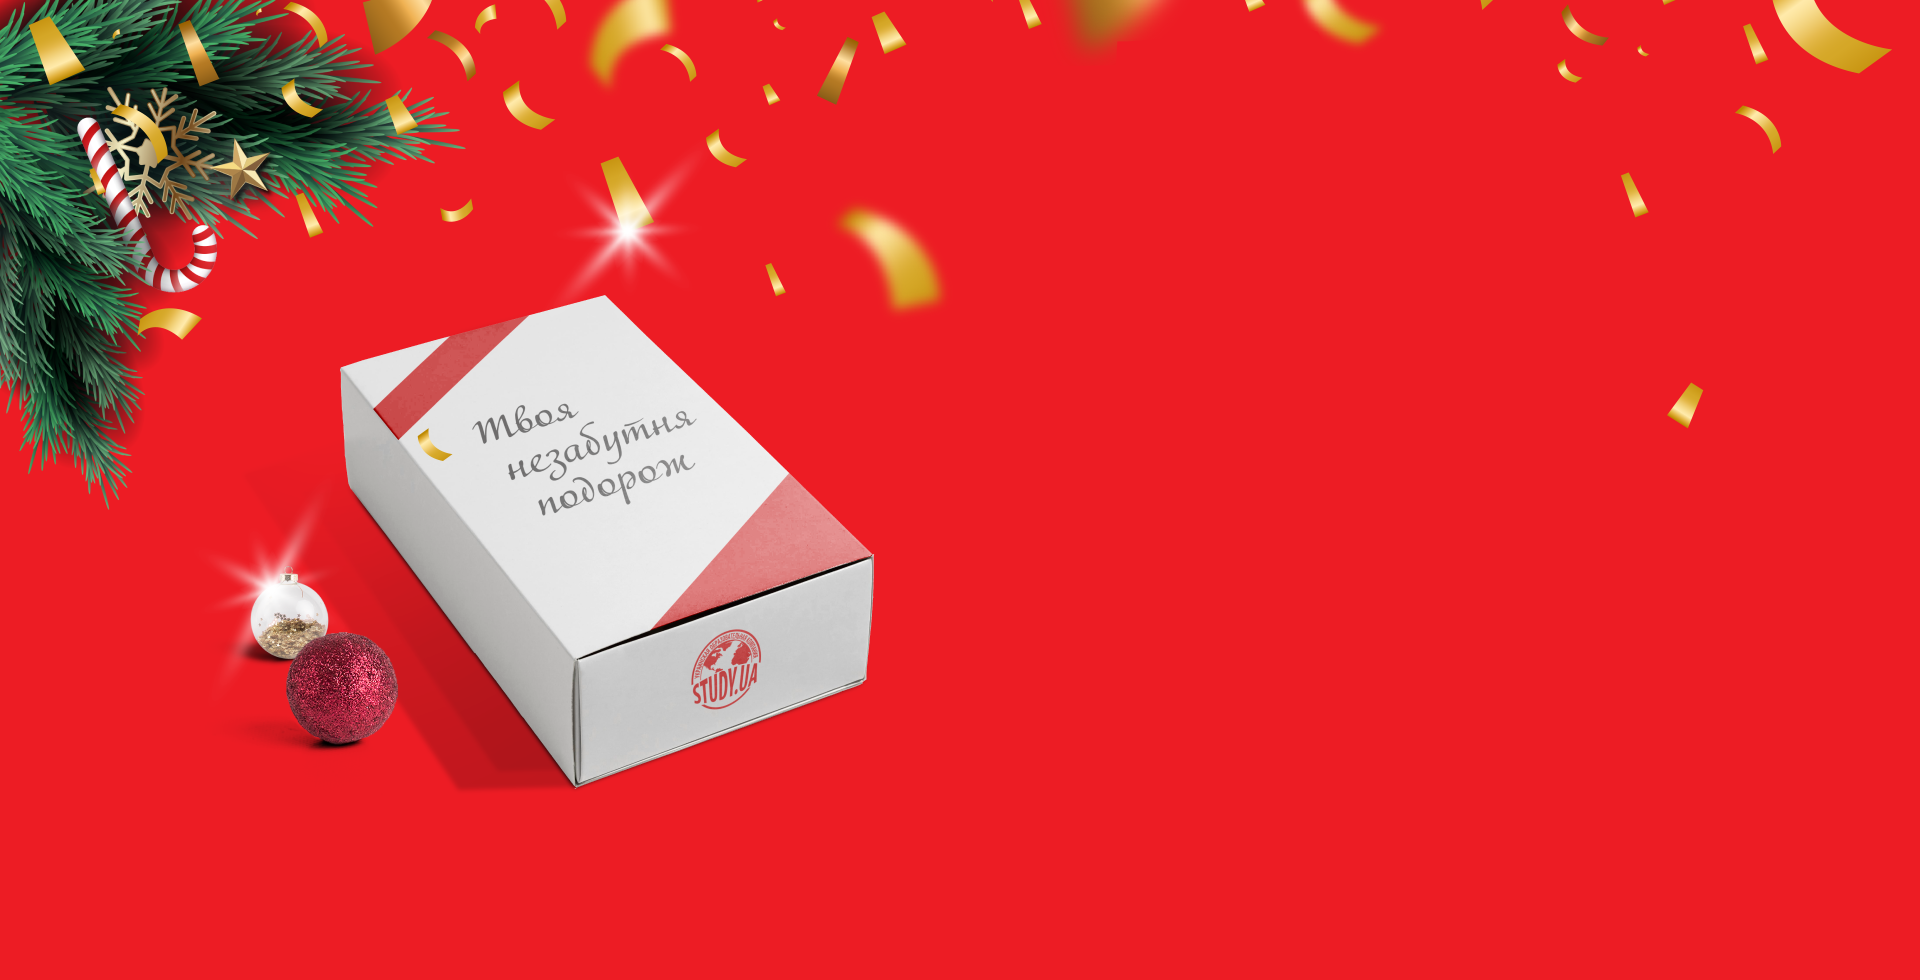
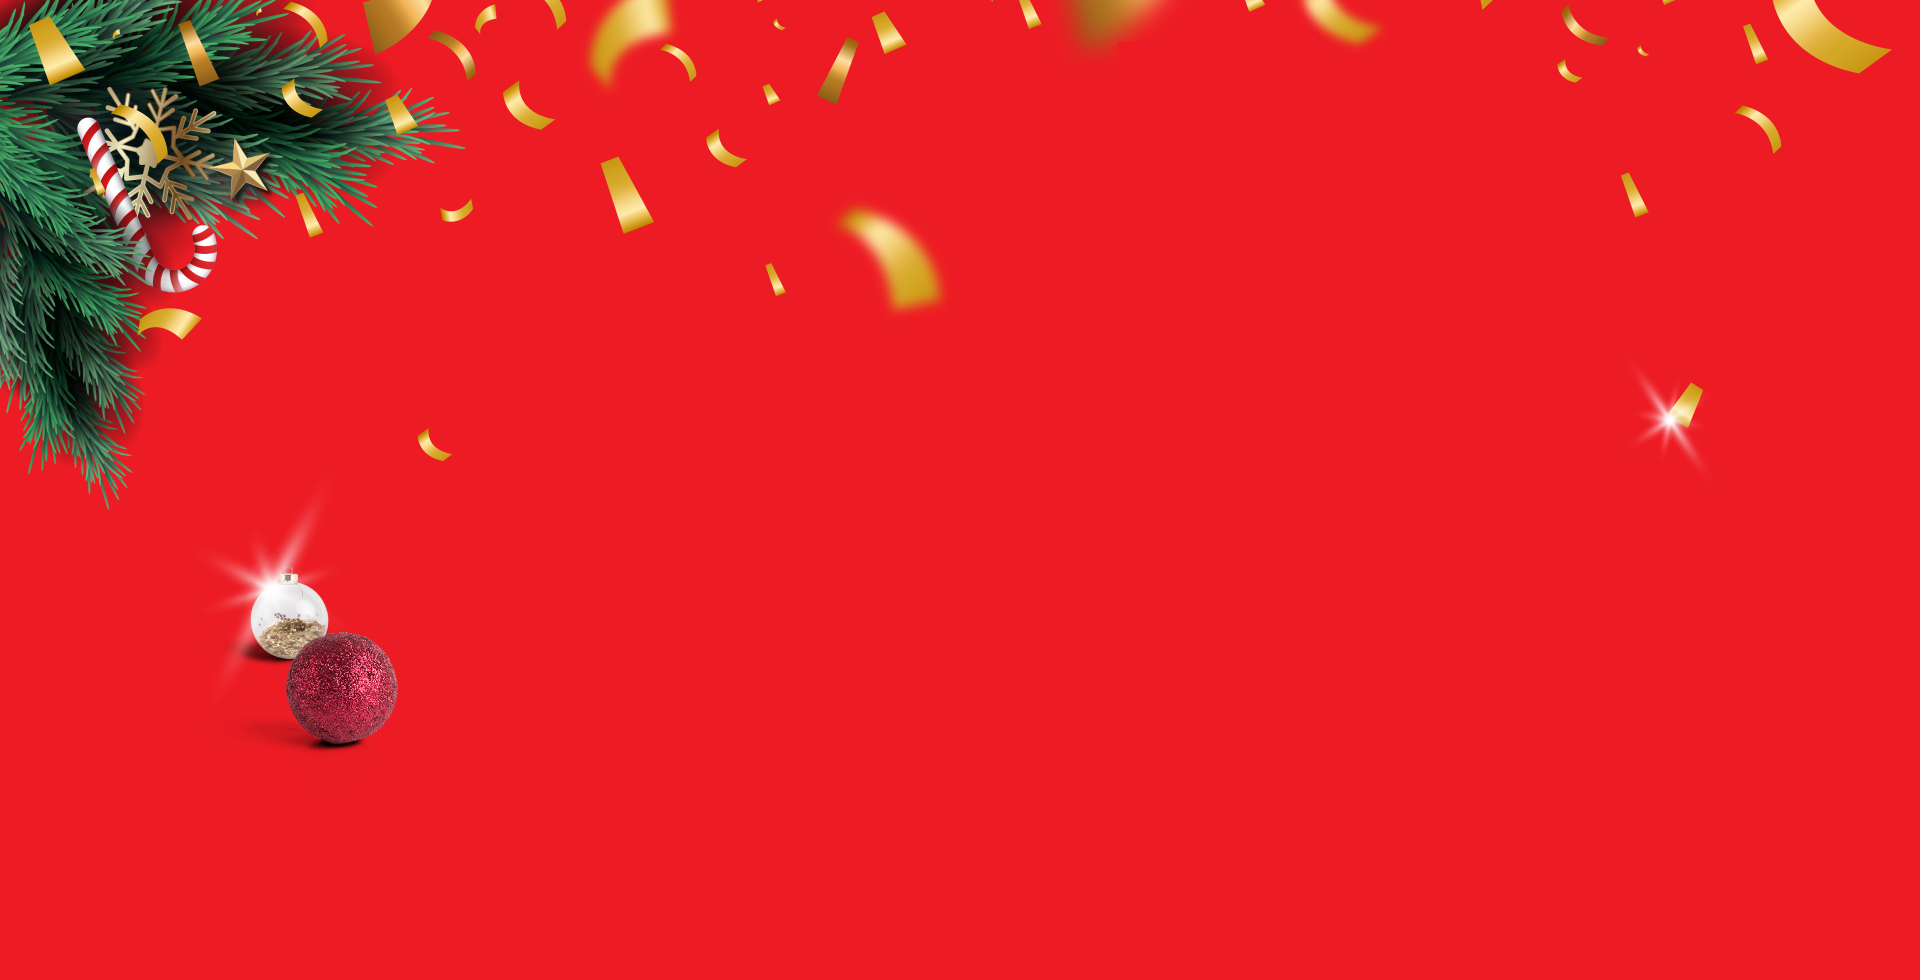
Work in progress

Changed region(s): [[0.1562, 0.1837, 0.4688, 0.8265], [0.8438, 0.398, 0.9062, 0.4592]]

diff --git a/index.html b/index.html
@@ -172,34 +172,46 @@
                     </button>
                 </article>
             </section> -->
-            <!-- <section class="main-three">
+            <section class="main-three">
                 <article class="main-three__article">
-                    <h2 class="main-three__title">Лише уявіть</h2>
-                    <p>
-                        Ваша дитина отримує персоналізований подарунок,<br />
-                        який має ексклюзивне <br />оформлення та дизайн, бачить
-                        <br />
-                        своє ім’я та повідомлення, яку було написано саме для
-                        неї. <br /><strong>Але найцікавіше — попереду!</strong
-                        ><br />
-                        На неї чекає незабутня освітня подорож, поїздка <br />
-                        за кордон - веселі та корисні канікулию
-                    </p>
-                    <div class="box-euro">
-                        <div class="box-euro-wrapper">
-                            <h3 class="textthree">-&#8364;300</h3>
-                            <p>
-                                Тільки до 25 грудня - обирайте поїздку зі
-                                знижкою &#8364;300!
-                            </p>
-                            <button class="btn btn-three">
-                                Зроби подарунок
-                            </button>
+                    <picture class="main-three__image">
+                        <source
+                            srcset="./assets/img/edition-mb.png"
+                            media="max-width:768px"
+                        />
+                        <img src="./assets/img/edition-dt.png" alt="" />
+                    </picture>
+                    <div>
+                        <h2 class="main-three__title">Лише уявіть</h2>
+                        <p>
+                            Ваша дитина отримує персоналізований подарунок,<br />
+                            який має ексклюзивне <br />оформлення та дизайн,
+                            бачить
+                            <br />
+                            своє ім’я та повідомлення, яку було написано саме
+                            для неї. <br /><strong
+                                >Але найцікавіше — попереду!</strong
+                            ><br />
+                            На неї чекає незабутня освітня подорож, поїздка
+                            <br />
+                            за кордон - веселі та корисні канікулию
+                        </p>
+                        <div class="box-euro">
+                            <div class="box-euro-wrapper">
+                                <h3 class="textthree">-&#8364;300</h3>
+                                <p>
+                                    Тільки до 25 грудня - обирайте поїздку зі
+                                    знижкою &#8364;300!
+                                </p>
+                                <button class="btn btn-three">
+                                    Зроби подарунок
+                                </button>
+                            </div>
                         </div>
                     </div>
                 </article>
-            </section> -->
-             <section class="section-four-steps">
+            </section>
+            <!-- <section class="section-four-steps">
                 <article class="section-four-steps__article">
                     <h2 class="section-four-steps__title">Як це працює?</h2>
                     <p class="section-four-steps__text">
@@ -275,7 +287,7 @@
                         </button>
                     </div>
                 </article>
-            </section> 
+            </section>  -->
             <!-- <section class="section-certificate">
                 <ariticle class="section-certificate__article">
                     <div class="section-certificate__wrapper__images">
@@ -325,7 +337,7 @@
                 </ariticle>
             </section> -->
         </main>
-         <!-- <footer class="footer-container">
+        <!-- <footer class="footer-container">
             <div class="footer-wrapper-address">
                 <address class="footer-address">
                     <a class="footer-text-uppercase" href="mailto:jim@rock.com"

diff --git a/assets/css/main-three.css b/assets/css/main-three.css
@@ -1,5 +1,6 @@
 .main-three {
     height: 100%;
+    padding: 1rem;
     background-color: var(--color-main);
     background-image: url(./../bg-images/bg-main-three-mb.png);
     background-repeat: no-repeat;
@@ -8,22 +9,24 @@
 }
 
 .main-three__article {
-    width: 18.75rem;
     margin-left: auto;
     margin-right: auto;
     margin-bottom: 1.875rem;
-    padding-top: 24rem;
-    padding-bottom: 3.75rem;
     display: flex;
     flex-direction: column;
-
+    align-items: center;
     text-align: start;
 
     color: var(--color-light);
-    
+}
+
+.main-three__image {
+    width: 65%;
+    margin-top: 100px;
 }
 
 .main-three__title {
+    margin-top: 20%;
     margin-bottom: 1.25rem;
 
     font-size: 2rem;
@@ -38,6 +41,8 @@
 }
 
 .box-euro {
+    min-width: 280px;
+    width: 95%;
     text-align: center;
     border-radius: 20px;
 
@@ -70,3 +75,42 @@
 .btn-three {
     margin-bottom: 1.875rem;
 }
+
+@media (min-width: 768px) {
+    .main-three {
+        background-image: url(./../bg-images/bg-main-three-dt.png);
+    }
+
+    .main-three__image {
+        width: 70%;
+        margin-top: -60px;
+        margin-right: 30px;
+        margin-left: 150px;
+    }
+
+    .main-three__article {
+        display: flex;
+        flex-direction: row;
+        justify-content: end;
+        text-align: start;
+
+        color: var(--color-light);
+    }
+
+    .main-three__title {
+        margin-top: 16rem;
+        margin-bottom: 1rem;
+    }
+}
+
+@media (min-width: 1200px) {
+    .main-three__image {
+        margin-right: 50px;
+        margin-left: 200px;
+    }
+}
+
+/* sm: 576px,
+  md: 768px,
+  lg: 992px,
+  xl: 1200px, */
